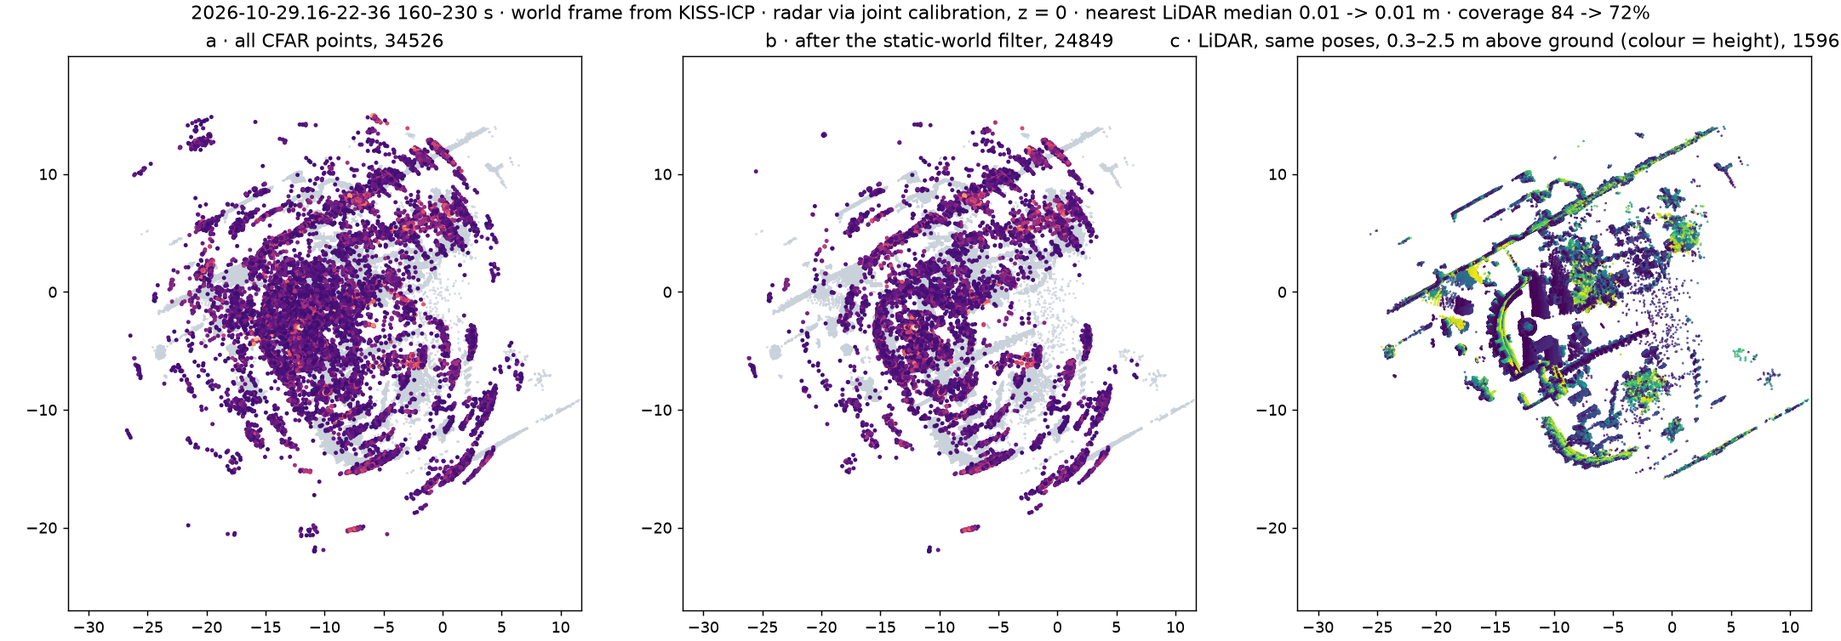
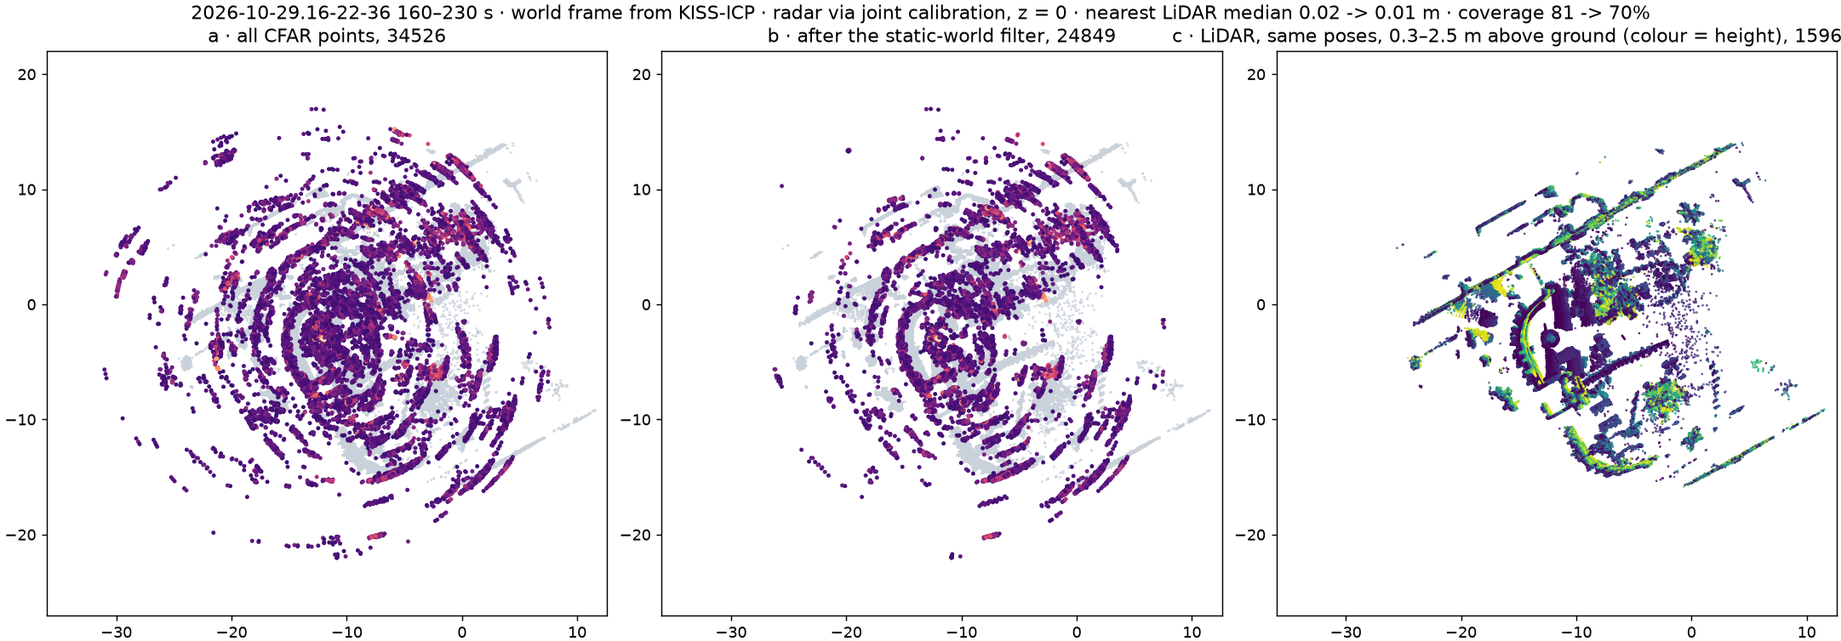
Scotty up close: camera, LiDAR and radar on one object; slant range in the plane
src/recon/closeup.py: two camera frames (4.0 m, 2.2 m) with the LiDAR scan and the radar
detections projected through the joint calibration, the LiDAR cut-out of the statue from one
scan and from all 270 orbit scans re-centred on the pedestal (fixed-radius circle fit per scan,
takes the odometry's 0.1 m jitter out), the orbit's radar points from above, and the
range-azimuth power of the 4 m frame. --split writes the two halves for the deck.

to_xy in pointcloud.py: the radar's elevation estimate is noise (13% of detections |el| > 20 deg,
8% > 45 deg) and to_xyz scaled the range by cos(el) before z was zeroed, so those points landed
short. accumulate.py uses to_xy; numbers re-run (Jeep filtered: median 0.04 -> 0.02 m,
86 -> 88% within 0.5 m; coverage 81 -> 69%). Docs and figures updated.

diff --git a/src/recon/closeup.py b/src/recon/closeup.py
@@ -1,0 +1,215 @@
+"""Close-up of one object as the three sensors see it.
+
+    python -m src.recon.closeup data/raw/2026-10-29.16-22-36 --centre -12.45 -2.60 \
+        --far 170 --near 174 --orbit 175 229 --split --out figures/closeup_scotty.png
+
+Panels: two camera frames (one a few metres out, one closer) with the LiDAR scan of that instant and the
+radar detections projected on them through the joint calibration (a, b); the LiDAR cut-out of the object
+from the one close scan (c) and from the whole orbit (d); the top view with the radar points of the orbit
+(e); the range-azimuth power of the far frame (f). --split also writes <out>_1.png (a-c) and <out>_2.png (d-f).
+
+--centre is the object's position in the world frame of data/poses/<trace> (first LiDAR scan), a guess
+good to half a metre. Per scan the centre is then refined on the object's pedestal: a circle of fixed
+radius (fitted once on the far scan, where most of the arc is visible) is fitted to the LiDAR points
+between --slice heights, two parameters, Gauss-Newton with a shrinking inlier band. That takes the
+odometry's jitter and slow drift out of the LiDAR cut-out (its yaw error stays); the radar points keep
+theirs, they come from data/recon/<trace>/radar_points.npz. Radar points carry no elevation, so they are
+drawn at the radar's height. Below ~1.5 m the LiDAR-camera projection drifts off the photo (the solved
+translation is only good to 0.1 m and parallax grows as 1/range), so keep --near at 2 m or more.
+"""
+import argparse, json, os, subprocess
+
+import numpy as np
+
+from ..radar import RadarTrace, detect
+from ..radar.pointcloud import to_xy, RANGE_OFFSET
+from ..radar.angle import AZIMUTHS
+from ..calib.lidar import LidarTrace
+from ..calib.transform import RadarToLidar, RadarToCamera
+from ..calib.board_image import project_fisheye
+from .accumulate import height_above_ground
+
+W, H = 1920, 1080
+HCMAP, HMAX = "turbo", 2.2
+TITLE = dict(fontsize=9)
+
+
+def camera_frame(trace, t_unix, path):
+    ts = np.fromfile(os.path.join(trace, "camera", "ts"), "<f8"); kc = int(np.searchsorted(ts, t_unix))
+    subprocess.run(["ffmpeg", "-v", "error", "-y", "-ss", f"{kc / 30:.3f}", "-i", os.path.join(trace, "camera", "video.avi"), "-frames:v", "1", path], check=True)
+    import matplotlib.image as mpimg
+    img = mpimg.imread(path); os.remove(path); return img, ts[kc]
+
+
+def inside(uv):
+    return (uv[:, 0] >= 0) & (uv[:, 0] < W) & (uv[:, 1] >= 0) & (uv[:, 1] < H)
+
+
+def circle_free(xy):
+    """Algebraic circle fit (centre, radius); fine when most of the arc is visible."""
+    A = np.c_[2 * xy, np.ones(len(xy))]; sol = np.linalg.lstsq(A, (xy ** 2).sum(1), rcond=None)[0]
+    return sol[:2], np.sqrt(sol[2] + sol[0] ** 2 + sol[1] ** 2)
+
+
+def circle_fixed(xy, c0, radius, tols=(0.3, 0.2, 0.12, 0.08, 0.06, 0.05)):
+    """Centre of a circle of known radius through the points: Gauss-Newton with a shrinking inlier band,
+    started from the free fit when that is sane, else from c0. Returns (centre, share of points within 5 cm)."""
+    c = np.array(c0, float)
+    if len(xy) >= 100:
+        cf, rf = circle_free(xy)
+        if np.hypot(*(cf - c)) < 1.0 and 0.5 * radius < rf < 2 * radius: c = cf
+    for tol in tols:
+        d = xy - c; rho = np.linalg.norm(d, axis=1); res = rho - radius; w = np.abs(res) < tol
+        if w.sum() < 30: return c, 0.0
+        c = c + np.linalg.lstsq(-d[w] / rho[w, None], -res[w], rcond=None)[0]
+    d = xy - c; return c, float((np.abs(np.linalg.norm(d, axis=1) - radius) < 0.05).mean())
+
+
+class Scan:
+    """One LiDAR scan with its pose, its ground, and the object's centre refined on the pedestal."""
+
+    def __init__(self, lt, L, t_unix, c_world, radius=None, slice_h=(0.45, 1.0), reach=1.5):
+        self.k = lt.index_at(t_unix); self.j = int(np.argmin(np.abs(L["t"] - t_unix))); self.T = L["T"][self.j]
+        xyz = lt.xyz(self.k); rho = np.linalg.norm(xyz[:, :2], axis=1); self.xyz = xyz[rho > 0.5]
+        self.h = height_above_ground(self.xyz)
+        c0 = (self.T[:3, :3].T @ (np.r_[c_world, self.T[2, 3]] - self.T[:3, 3]))[:2]       # odometry's idea of the centre, this frame
+        m = (np.hypot(*(self.xyz[:, :2] - c0).T) < reach) & (self.h > slice_h[0]) & (self.h < slice_h[1])
+        if radius is None: self.c, self.radius = circle_free(self.xyz[m, :2]); self.fit = 1.0
+        else: self.c, self.fit = circle_fixed(self.xyz[m, :2], c0, radius); self.radius = radius
+        self.c0, self.n_slice = c0, int(m.sum())
+
+    def dist(self):
+        return float(np.hypot(*self.c))
+
+    def cut(self, r):
+        return np.hypot(*(self.xyz[:, :2] - self.c).T) < r
+
+    def world_xy(self, xy):
+        return xy @ self.T[:2, :2].T + self.T[:2, 3]
+
+
+def axes3d(ax, R, look):
+    ax.view_init(elev=14, azim=look); ax.set_xlim(-R, R); ax.set_ylim(-R, R); ax.set_zlim(0, 2.4); ax.set_box_aspect((1, 1, 1.05))
+    ax.set_xlabel("x (m)", fontsize=8); ax.set_ylabel("y (m)", fontsize=8); ax.set_zlabel("height (m)", fontsize=8); ax.tick_params(labelsize=7)
+    for p in (ax.xaxis.pane, ax.yaxis.pane, ax.zaxis.pane): p.fill = False
+
+
+def main():
+    ap = argparse.ArgumentParser()
+    ap.add_argument("trace"); ap.add_argument("--centre", type=float, nargs=2, required=True); ap.add_argument("--radius", type=float, default=1.2, help="cut-out radius (m)")
+    ap.add_argument("--far", type=float, required=True); ap.add_argument("--near", type=float, required=True)
+    ap.add_argument("--orbit", type=float, nargs=2, required=True, help="start, end (s) of the orbit used for the LiDAR cut-out")
+    ap.add_argument("--slice", type=float, nargs=2, default=(0.45, 1.0), help="heights of the pedestal slice the centre is fitted on")
+    ap.add_argument("--poses-dir", default="data/poses"); ap.add_argument("--accumulate", type=int, default=10); ap.add_argument("--snr", type=float, default=10)
+    ap.add_argument("--split", action="store_true"); ap.add_argument("--out", required=True)
+    a = ap.parse_args()
+    name = os.path.basename(a.trace.rstrip("/")); c_guess = np.array(a.centre)
+    tr = RadarTrace(a.trace); lt = LidarTrace(a.trace); t0 = tr.ts[0]
+    P = np.load(os.path.join(a.poses_dir, name, "radar.npz")); L = np.load(os.path.join(a.poses_dir, name, "lidar.npz"))
+    T_rl = RadarToLidar.load_joint(); C_rc = RadarToCamera.load_joint()
+    lc = json.load(open("calib/extrinsics_joint.json"))["lidar_to_camera"]; R_lc, t_lc = np.array(lc["R"]), np.array(lc["t_m"])
+    rec = np.load(os.path.join("data/recon", name, "radar_points.npz"))
+    import matplotlib; matplotlib.use("Agg"); import matplotlib.pyplot as plt
+
+    # pedestal radius from the far scan, then every scan's centre with that radius
+    radius = Scan(lt, L, t0 + a.far, c_guess, None, a.slice).radius; print(f"pedestal radius from the far scan: {radius:.2f} m")
+
+    # a, b: camera frames with the LiDAR cut-out and the radar detections projected
+    cams = []
+    for tag, tsec in [("a", a.far), ("b", a.near)]:
+        img, t_cam = camera_frame(a.trace, t0 + tsec, a.out + f"_{tag}.png"); s = Scan(lt, L, t_cam, c_guess, radius, a.slice); kr = tr.index_at(t_cam)
+        pts = np.concatenate([detect(tr.frame(k), tr.params)[0] for k in range(kr - a.accumulate // 2, kr + a.accumulate // 2)]); pts = pts[pts["snr"] > a.snr]
+        xy_r = to_xy(pts); on = np.hypot(*(T_rl(xy_r)[:, :2] - s.c).T) < radius + 0.5; uv_r = C_rc.pixels(xy_r); m_r = inside(uv_r) & (C_rc(xy_r)[:, 2] > 0.3)
+        cut = s.cut(a.radius) & (s.h > 0.05); lid_cam = s.xyz[cut] @ R_lc.T + t_lc; ok = lid_cam[:, 2] > 0.3; uv_l = project_fisheye(lid_cam[ok], C_rc.cam); q = inside(uv_l)
+        cams.append(dict(tag=tag, tsec=tsec, img=img, s=s, uv_l=uv_l[q], h_l=s.h[cut][ok][q], uv_r=uv_r, m_r=m_r, on=on, pts=pts, kr=kr, n_cut=int(cut.sum())))
+        print(f"{tag}: t = {tsec} s, object {s.dist():.2f} m away (odometry said {np.hypot(*s.c0):.2f}), fit {s.fit:.2f}; {cut.sum()} LiDAR points on it; "
+              f"radar {on.sum()} of {len(pts)} points on it, r {np.unique(pts['r'][on].round(2))}, SNR max {pts['snr'][on].max():.0f}")
+
+    def panel_camera(ax, d):
+        s, pts, on, m_r = d["s"], d["pts"], d["on"], d["m_r"]
+        ax.imshow(d["img"]); ax.scatter(d["uv_l"][:, 0], d["uv_l"][:, 1], s=1.5, c=d["h_l"], cmap=HCMAP, vmin=0, vmax=HMAX, linewidths=0, alpha=.9)
+        ax.scatter(d["uv_r"][m_r & ~on, 0], d["uv_r"][m_r & ~on, 1], s=70, facecolors="none", edgecolors="white", linewidths=1.2)
+        ax.scatter(d["uv_r"][m_r & on, 0], d["uv_r"][m_r & on, 1], s=110, facecolors="none", edgecolors="#FF3B30", linewidths=2.2)
+        ax.set_xlim(0, W); ax.set_ylim(H, 0); ax.axis("off")
+        ax.set_title(f"{d['tag']} · camera t = {d['tsec']:.0f} s, object {s.dist():.1f} m away: LiDAR scan on it (dots = height)\n"
+                     f"radar, {a.accumulate} frames (circles): {on.sum()} on the object at r {pts['r'][on].min():.1f}–{pts['r'][on].max():.1f} m, SNR ≤ {pts['snr'][on].max():.0f} dB", **TITLE)
+
+    # c: the one close scan in 3D
+    s_near = cams[1]["s"]; cut_c = s_near.cut(a.radius) & (s_near.h > 0.05); p_c, h_c = s_near.xyz[cut_c], s_near.h[cut_c]
+    look_c = np.degrees(np.arctan2(-s_near.c[1], -s_near.c[0])) + 25                   # viewer a little to the side of the sensor
+
+    def panel_scan3d(ax):
+        ax.scatter(p_c[:, 0] - s_near.c[0], p_c[:, 1] - s_near.c[1], h_c, s=.8, c=h_c, cmap=HCMAP, vmin=0, vmax=HMAX, linewidths=0, depthshade=False)
+        axes3d(ax, a.radius, look_c)
+        ax.set_title(f"c · LiDAR, the one scan of b: {len(p_c):,} points on the object from {s_near.dist():.1f} m\n"
+                     f"(beam spacing there ~{1000 * s_near.dist() * np.radians(360 / 2048):.0f} mm across, ~{1000 * s_near.dist() * np.radians(90 / 127):.0f} mm up)", **TITLE)
+
+    # d: the whole orbit, every 2nd scan, each re-centred on the pedestal, world orientation about the object
+    sel = np.flatnonzero((L["t"] >= t0 + a.orbit[0]) & (L["t"] < t0 + a.orbit[1]))[::2]
+    pts_o, h_o, fits, centres = [], [], [], []
+    for j in sel:
+        s = Scan(lt, L, L["t"][j], c_guess, radius, a.slice)
+        if s.fit < 0.3 or s.n_slice < 200: continue
+        cut = s.cut(a.radius) & (s.h > 0.05); pts_o.append((s.xyz[cut, :2] - s.c) @ s.T[:2, :2].T); h_o.append(s.h[cut]); fits.append(s.fit); centres.append(s.world_xy(s.c))
+    pts_o, h_o, centres = np.concatenate(pts_o), np.concatenate(h_o), np.array(centres); c_ref = centres.mean(0)
+    odo = c_guess - c_ref; jitter = float(np.hypot(*centres.std(0)))
+    pos_w = P["T"][:, :2, 3]; k_far = int(np.argmin(np.abs(P["t"] - (t0 + a.far)))); look_d = np.degrees(np.arctan2(*(pos_w[k_far] - c_ref)[::-1])) + 25
+    print(f"orbit: {len(fits)} of {len(sel)} scans used, fit inlier share median {np.median(fits):.2f}; refined centre (world) {c_ref.round(2)}, "
+          f"guess was {np.hypot(*odo):.2f} m off; scan centres scatter {jitter:.2f} m about the mean; {len(pts_o):,} points")
+
+    def panel_orbit3d(ax):
+        step = max(1, len(pts_o) // 400_000)
+        ax.scatter(pts_o[::step, 0], pts_o[::step, 1], h_o[::step], s=.4, c=h_o[::step], cmap=HCMAP, vmin=0, vmax=HMAX, linewidths=0, depthshade=False)
+        axes3d(ax, a.radius, look_d)
+        ax.set_title(f"d · LiDAR, {len(fits)} orbit scans ({a.orbit[0]:.0f}–{a.orbit[1]:.0f} s), each re-centred on the pedestal\n"
+                     f"(r = {radius:.2f} m circle fitted at {a.slice[0]}–{a.slice[1]} m; odometry centres scatter {jitter:.2f} m)", **TITLE)
+
+    # e: top view with the radar points of the orbit
+    R2 = 2.5; rx = rec["xyz"][:, :2] - c_ref; nr = np.hypot(*rx.T) < R2; st = rec["static"]; ps = (P["t"] >= t0 + a.orbit[0]) & (P["t"] < t0 + a.orbit[1])
+    on_ped = (np.hypot(*rx[nr & st].T) < radius + 0.35).sum()
+
+    def panel_top(ax, fig):
+        m = h_o > 0.3; ax.scatter(pts_o[m][::4, 0], pts_o[m][::4, 1], s=.3, c="#AEB7C2", linewidths=0, label="LiDAR of d, > 0.3 m")
+        ax.scatter(rx[nr & ~st, 0], rx[nr & ~st, 1], s=7, c="#E8C4C4", linewidths=0, label="radar, failed the static test")
+        sc = ax.scatter(rx[nr & st, 0], rx[nr & st, 1], s=12, c=rec["snr"][nr & st], cmap="magma", vmin=10, vmax=30, linewidths=0, label="radar, static")
+        ax.plot(pos_w[ps, 0] - c_ref[0], pos_w[ps, 1] - c_ref[1], color="#2C43B0", lw=1, label="sensor path"); ax.add_patch(plt.Circle((0, 0), radius, fill=False, color="#15202B", lw=1, ls="--"))
+        ax.set_xlim(-R2, R2); ax.set_ylim(-R2, R2); ax.set_aspect("equal"); ax.set_xlabel("x (m)"); ax.set_ylabel("y (m)"); ax.legend(loc="upper left", fontsize=7.5, markerscale=2)
+        ax.set_title(f"e · top view: {(nr & st).sum():,} static radar points, {on_ped:,} at the pedestal (dashed);\n"
+                     f"{(nr & ~st).sum():,} rejected (pink); the ring round the path is the operator", **TITLE)
+        fig.colorbar(sc, ax=ax, shrink=.75, label="radar SNR (dB)")
+
+    # f: range-azimuth power of the far frame with the LiDAR of that instant
+    s_far = cams[0]["s"]; pts_f, info = detect(tr.frame(cams[0]["kr"]), tr.params); db = 10 * np.log10(info["power"] + 1e-12)
+    rng = tr.params.ranges - RANGE_OFFSET; AZ, RG = np.meshgrid(AZIMUTHS, rng, indexing="ij"); X, Y = -RG * np.sin(AZ), RG * np.cos(AZ)
+    lid_r = T_rl.inverse(s_far.xyz[(s_far.h > 0.3) & (s_far.h < 2.5)]); c_r = T_rl.inverse(np.r_[s_far.c, 0.0][None])[0]; xy_d = to_xy(pts_f)
+    pk = db[np.hypot(X - c_r[0], Y - c_r[1]) < radius + 0.4].max(); floor = np.median(db); r_max = RG.flat[db.argmax()]
+    print(f"f: object peak {pk - floor:.0f} dB above the floor, {db.max() - pk:.0f} dB below the strongest return at {r_max:.1f} m; "
+          f"CFAR detections on it: {[(round(float(p['r']), 2), round(float(np.degrees(p['az']))), round(float(p['snr']))) for p in pts_f if np.hypot(-p['r'] * np.sin(p['az']) - c_r[0], p['r'] * np.cos(p['az']) - c_r[1]) < radius + 0.4]}")
+
+    def panel_power(ax, fig):
+        R3 = 7.0
+        pm = ax.pcolormesh(X, Y, db, cmap="inferno", vmin=np.percentile(db, 50), vmax=np.percentile(db, 99.8), shading="nearest", rasterized=True)
+        ax.scatter(lid_r[:, 0], lid_r[:, 1], s=.3, c="#8FD3FF", linewidths=0, alpha=.5); ax.add_patch(plt.Circle(c_r[:2], radius, fill=False, color="white", lw=1.2, ls="--"))
+        ax.scatter(xy_d[:, 0], xy_d[:, 1], s=14, marker="x", c="#00E5A0", linewidths=1)
+        ax.set_xlim(-R3, R3); ax.set_ylim(0, 2 * R3); ax.set_aspect("equal"); ax.set_xlabel("x radar (m)"); ax.set_ylabel("y radar (m)")
+        ax.set_title(f"f · radar range–azimuth power, the frame of a; LiDAR 0.3–2.5 m (blue), CFAR (x)\n"
+                     f"object (dashed): peak {pk - floor:.0f} dB above the floor, {db.max() - pk:.0f} dB below the wall at {r_max:.1f} m", **TITLE)
+        fig.colorbar(pm, ax=ax, shrink=.75, label="power (dB)")
+
+    sup = f"{name}: one object up close — camera, LiDAR and radar (joint calibration, KISS-ICP poses)"
+    layouts = [("", (2, 3), (16.64, 9.6), "abcdef")] + ([("_1", (1, 3), (16.64, 5.3), "abc"), ("_2", (1, 3), (16.64, 5.3), "def")] if a.split else [])
+    os.makedirs(os.path.dirname(a.out) or ".", exist_ok=True)
+    for suffix, shape, size, panels in layouts:
+        fig = plt.figure(figsize=size, constrained_layout=True); gs = fig.add_gridspec(*shape)
+        for i, p in enumerate(panels):
+            cell = gs[i // shape[1], i % shape[1]]
+            if p in "ab": panel_camera(fig.add_subplot(cell), cams["ab".index(p)])
+            elif p == "c": panel_scan3d(fig.add_subplot(cell, projection="3d"))
+            elif p == "d": panel_orbit3d(fig.add_subplot(cell, projection="3d"))
+            elif p == "e": panel_top(fig.add_subplot(cell), fig)
+            elif p == "f": panel_power(fig.add_subplot(cell), fig)
+        fig.suptitle(sup, fontsize=12); path = a.out.replace(".png", f"{suffix}.png"); fig.savefig(path, dpi=110); plt.close(fig); print("saved", path)
+
+
+if __name__ == "__main__":
+    main()

diff --git a/src/recon/accumulate.py b/src/recon/accumulate.py
@@ -25,7 +25,8 @@ import argparse, os
 import numpy as np
 from scipy.ndimage import median_filter
 
-from ..radar import RadarTrace, detect, to_xyz
+from ..radar import RadarTrace, detect
+from ..radar.pointcloud import to_xy
 from ..radar.ego import static_mask_from_velocity, estimate_ego_dense
 from ..radar.angle import AZIMUTHS
 from ..calib.lidar import LidarTrace
@@ -84,7 +85,7 @@ def main():
         v_lidar = T[:3, :3].T @ vel_w[n]; v_radar = R_rl.T @ v_lidar                  # world -> lidar -> radar frame
         m = static_mask_from_velocity(pts, v_radar[:2], v_res=tr.params.velocity_resolution)
         s_dop, phi_dop, sup = estimate_ego_dense(info["spec_az"], tr.params.velocities, AZIMUTHS)   # Doppler-only cross-check
-        xyz = to_xyz(pts); xyz[:, 2] = 0.0
+        xyz = to_xy(pts)                                                          # slant range in the plane, z = 0 (elevation unusable)
         xyz_w = T_rl(xyz) @ T[:3, :3].T + T[:3, 3]
         world.append(xyz_w); snr.append(pts["snr"]); frame.append(np.full(len(pts), k)); kept.append(m)
         ego.append((t_w[n], np.hypot(*v_radar[:2]), np.arctan2(-v_radar[0], v_radar[1]), s_dop, phi_dop, sup, len(pts)))

diff --git a/src/radar/pointcloud.py b/src/radar/pointcloud.py
@@ -54,3 +54,14 @@ def to_xyz(pts):
     """Spherical -> Cartesian: x right, y forward, z up (metres)."""
     r, az, el = pts["r"], pts["az"], pts["el"]
     return np.stack([-r * np.sin(az) * np.cos(el), r * np.cos(az) * np.cos(el), r * np.sin(el)], axis=-1)
+
+
+def to_xy(pts):
+    """(N, 3) with z = 0: the slant range placed in the plane, x right, y forward.
+
+    The elevation estimate (two antenna rows half a wavelength apart) is too noisy to use: on the
+    Scotty orbit 13% of detections have |el| > 20 deg and 8% > 45 deg. to_xyz scales the range by
+    cos(el), so those points land far too short; whenever z is set to 0 anyway, use this instead.
+    """
+    r, az = pts["r"], pts["az"]
+    return np.stack([-r * np.sin(az), r * np.cos(az), np.zeros(len(r))], axis=-1)

diff --git a/experiments/obj-orbit-360/README.md b/experiments/obj-orbit-360/README.md
@@ -39,9 +39,9 @@ They agree. On Scotty the ridge speed is within 0.15 m/s of the odometry on 89 %
 *Same for `15-49-40` 660–1020 s (`--frames 750 965`). The 720 s spike in the odometry speed is the look-around swing that the deskew and map settings above were tuned on.*
 
 ## Accumulation in the world frame (2026-11-01)
-`src/recon/accumulate.py`: CFAR points of every radar frame (snr > 10), the static-world test with the odometry velocity (|v − (−v_sensor · u(az))| < 1.5 Doppler bins), z set to 0, joint calibration into the LiDAR frame, the interpolated pose into the world. Next to it the LiDAR built with the same poses, the operator and rig dropped (within 1.5 m), and only the layer 0.3–2.5 m above the ground kept, within 15 m of the sensor; that layer is roughly what the radar sees. The ground is estimated per scan in the sensor frame, in two steps: a plane fitted to the low points within 10 m (the handheld rig is tilted, so in the sensor frame the ground is a slope of up to ±1 m at 5 m), then per 2 m cell the 5th percentile of the residual to that plane, so a terrace or the raised lawn next to Scotty's plaza counts as ground too. Per scan because the odometry's z and pitch jitter smears the ground into a 0.5 m slab in the world frame, where a height cut no longer separates it (the first try, a world-frame cut, left a lattice of ground wedges); the plane alone kept Scotty's lawn as a 0.3–0.5 m "layer", the cells alone let the tilted asphalt through. Two numbers, both within 15 m of the path: the xy distance from each radar point to the nearest LiDAR point of the layer, and coverage, the share of 0.5 m LiDAR cells that have a radar point within 0.5 m.
+`src/recon/accumulate.py`: CFAR points of every radar frame (snr > 10), the static-world test with the odometry velocity (|v − (−v_sensor · u(az))| < 1.5 Doppler bins), the slant range placed in the plane (z = 0; the elevation estimate is unusable, see the close-up below), joint calibration into the LiDAR frame, the interpolated pose into the world. Next to it the LiDAR built with the same poses, the operator and rig dropped (within 1.5 m), and only the layer 0.3–2.5 m above the ground kept, within 15 m of the sensor; that layer is roughly what the radar sees. The ground is estimated per scan in the sensor frame, in two steps: a plane fitted to the low points within 10 m (the handheld rig is tilted, so in the sensor frame the ground is a slope of up to ±1 m at 5 m), then per 2 m cell the 5th percentile of the residual to that plane, so a terrace or the raised lawn next to Scotty's plaza counts as ground too. Per scan because the odometry's z and pitch jitter smears the ground into a 0.5 m slab in the world frame, where a height cut no longer separates it (the first try, a world-frame cut, left a lattice of ground wedges); the plane alone kept Scotty's lawn as a 0.3–0.5 m "layer", the cells alone let the tilted asphalt through. Two numbers, both within 15 m of the path: the xy distance from each radar point to the nearest LiDAR point of the layer, and coverage, the share of 0.5 m LiDAR cells that have a radar point within 0.5 m.
 
-On the Jeep orbit (930–1020 s, two laps, 1,777 frames, 23,999 CFAR points) the static filter keeps 44 %. What it removes is the cloud inside the orbit (panel a): points with the wrong Doppler for their azimuth, the ghosts of the Jeep's two-bounce returns, sidelobes of the strong near echo, and the companion walking alongside. What stays (panel b) is the Jeep as a ring of returns around its LiDAR outline, the row of parked cars at 10–15 m, and the wall segments at the left, each where the LiDAR has them: the median distance to the LiDAR layer drops from 0.08 to 0.04 m and the share within 0.5 m rises from 75 to 86 %. Coverage drops from 82 to 68 %, so the filter also costs real points, mostly where the odometry velocity is least certain (the 1 s median lags turns) and at the edge of the field of view, where the static curve is steepest. On Scotty (160–230 s, 1,384 frames, 34,526 points) 72 % pass, the median distance stays 0.01 m (94 % within 0.5 m) and coverage goes from 84 to 72 %. The pass rate tracks the odometry speed: at Scotty's 0.3 m/s the whole scene sits within a few Doppler bins of zero and little can fail the test; at 0.55 m/s around the Jeep more does. Both runs also write the dense range–azimuth power of every frame (`--dense`, `data/recon/<trace>/dense_power.npz`, float16 dB, with the frame index that keys the poses) for a reconstruction that does not start from CFAR points.
+On the Jeep orbit (930–1020 s, two laps, 1,777 frames, 23,999 CFAR points) the static filter keeps 44 %. What it removes is the cloud inside the orbit (panel a): points with the wrong Doppler for their azimuth, the ghosts of the Jeep's two-bounce returns, sidelobes of the strong near echo, and the companion walking alongside. What stays (panel b) is the Jeep as a ring of returns around its LiDAR outline, the row of parked cars at 10–15 m, and the wall segments at the left, each where the LiDAR has them: the median distance to the LiDAR layer drops from 0.06 to 0.02 m and the share within 0.5 m rises from 77 to 88 %. Coverage drops from 81 to 69 %, so the filter also costs real points, mostly where the odometry velocity is least certain (the 1 s median lags turns) and at the edge of the field of view, where the static curve is steepest. On Scotty (160–230 s, 1,384 frames, 34,526 points) 72 % pass, the median distance goes from 0.02 to 0.01 m (90 to 92 % within 0.5 m) and coverage from 81 to 70 %. The pass rate tracks the odometry speed: at Scotty's 0.3 m/s the whole scene sits within a few Doppler bins of zero and little can fail the test; at 0.55 m/s around the Jeep more does. Both runs also write the dense range–azimuth power of every frame (`--dense`, `data/recon/<trace>/dense_power.npz`, float16 dB, with the frame index that keys the poses) for a reconstruction that does not start from CFAR points.
 
 ![Accumulated radar points next to the LiDAR, Jeep orbit](../../figures/accum_jeep.png)
 
@@ -52,6 +52,17 @@ On the Jeep orbit (930–1020 s, two laps, 1,777 frames, 23,999 CFAR points) the
 *Same for `16-22-36` 160–230 s. Scotty is the small cluster near the orbit centre; the arcs are the wall and planters behind it.*
 
 What this is good for and what it is not: the accumulated static points sit on the LiDAR surfaces to a few centimetres in the plane, which is the calibration and odometry working; the object itself is still a ring the width of the 14° beam, with no height. Per-object numbers (points on the object per frame, extent against the LiDAR, echo strength versus viewing angle) are the next step, on these files.
+
+## Up close: Scotty (2026-11-01)
+`src/recon/closeup.py`: one object at the resolution each sensor has for it. Two camera frames of the approach, at 4.0 m and 2.2 m, carry the LiDAR scan of that instant and the radar detections of ten frames, both projected through the joint calibration; the LiDAR points are cut out within 1.2 m of the statue and coloured by height above the local ground, the radar points are drawn at the radar's height, red when they fall within half a metre of the pedestal. The statue's position starts as a guess (the orbit's centre) and is refined on every scan: a circle of fixed radius (0.39 m, fitted once on the 4 m scan, where most of the arc is visible) is fitted to the LiDAR points 0.45–1.0 m above ground, two parameters, Gauss–Newton with a shrinking inlier band. The guess was 0.45 m off; the per-scan centres then scatter 0.10 m about their mean, which is the odometry's jitter, and the cut-out from all 270 scans of the orbit (175–229 s) is drawn with that correction.
+
+What each sensor has of a 1.9 m statue. The camera has all of it, fisheye, 1920 × 1080. The LiDAR at 2.2 m has 8,864 points on it, 7 mm apart across and 28 mm up, enough that the head, back and tail of the dog read from one scan (panel c); from the whole orbit, re-centred, the plinth, the cylinder and the dog are all there, the dog smeared by the odometry's yaw error, which the re-centring does not touch (d). The radar at 4 m sees the statue as two CFAR detections at 3.4–3.5 m (SNR 12–17 dB); its peak in the range–azimuth map is 36 dB above the noise floor and 9 dB below the wall behind it at 7.2 m (f). At 2.2 m it is 30 points of ten frames at 1.7–2.0 m, SNR up to 27 dB. Over the orbit the static points pile onto the pedestal: 3,041 of the 4,582 within 2.5 m lie within 0.35 m of its surface (e), a blob the size of the pedestal rather than a ring, because at 1–1.3 m from the axis the 14° beam and the 9 cm range bin each cover the whole object. The 2,299 rejected points form a ring around the path: the operator, who moves with the sensor and so carries the wrong Doppler for a static target. Below about 1.5 m the LiDAR–camera projection drifts off the photo (the solved translation is good to 0.1 m and parallax grows as 1/range), so the close frame is taken at 2.2 m.
+
+One fix came out of this. The radar's elevation estimate was being used: `to_xyz` scales the range by cos(el) before z was zeroed, and with 13 % of detections at |el| > 20° and 8 % beyond 45°, those points landed short. `to_xy` now puts the slant range in the plane, and the accumulation numbers above are with it (Jeep, filtered: median 0.04 → 0.02 m, 86 → 88 % within 0.5 m).
+
+![Scotty up close: camera, LiDAR and radar](../../figures/closeup_scotty.png)
+
+*`16-22-36`: a, b camera at 4.0 and 2.2 m with the LiDAR scan (colour = height) and the radar detections (circles, red on the object); c the one scan at 2.2 m; d the orbit's 270 scans re-centred on the pedestal; e top view with the orbit's radar points; f range–azimuth power of the 4 m frame with the LiDAR of that instant. `python -m src.recon.closeup data/raw/2026-10-29.16-22-36 --centre -12.45 -2.60 --far 170 --near 174 --orbit 175 229 --split --out figures/closeup_scotty.png`.*
 
 ## Results
 | Object | Size | Material | Radar points per frame on object | Extent error vs LiDAR | Mean echo (dB) | Visible from all sides? |
@@ -81,7 +92,8 @@ Pending. Expected: the car is bright from every side, the small metal object is 
 ## Open items
 - Odometry yaw still slips ~150° over the Jeep window while standing still and spinning (785–890 s); a loop closure or the IMU as a yaw prior would fix it. The orbit itself is unaffected.
 - Decide how to segment each object in the LiDAR layer (the Jeep is the cluster at the orbit centre)
-- The static filter's cost in coverage (82 → 68 % on the Jeep): a Doppler-only ego estimate per frame, or a shorter velocity smoothing, might keep more of the edge-of-view points
+- The LiDAR cut-out of an object is only as sharp as the odometry's yaw; the pedestal fit fixes the position, not the rotation. Registering the scans on the object itself (ICP on the cut-out) is the next step for a crisp model.
+- The static filter's cost in coverage (81 → 69 % on the Jeep): a Doppler-only ego estimate per frame, or a shorter velocity smoothing, might keep more of the edge-of-view points
 
 ## B-roll to capture (for the 5-minute video)
 - [ ] Phone video of each orbit from a second person
@@ -93,6 +105,7 @@ Pending. Expected: the car is bright from every side, the small metal object is 
 python -m src.recon.poses data/raw/2026-10-29.15-49-40 --start 660 --seconds 360 --out figures/poses_jeep.png
 python -m src.recon.ego_check data/raw/2026-10-29.15-49-40 --start 660 --seconds 360 --frames 750 965 --out figures/ego_check_jeep.png
 python -m src.recon.accumulate data/raw/2026-10-29.15-49-40 --start 930 --seconds 90 --dense --out figures/accum_jeep.png
+python -m src.recon.closeup data/raw/2026-10-29.16-22-36 --centre -12.45 -2.60 --far 170 --near 174 --orbit 175 229 --split --out figures/closeup_scotty.png
 ```
 Same for `16-22-36` with `--start 160 --seconds 70` (and `--frames 165 200`). Outputs: `data/poses/<trace>/`, `data/recon/<trace>/` (not in git). Per-object analysis: `src/ext/360/` (Yining).
 

diff --git a/EXPERIMENTS.md b/EXPERIMENTS.md
@@ -206,15 +206,19 @@ The main deliverable; needs section 6 first. Radar points projected into the ima
 
 ## 8. Orbits around objects
 
-*[obj-orbit-360](experiments/obj-orbit-360/README.md) · data partly recorded (10/29); poses, static-world filter and accumulation working (11/1); per-object numbers pending*
+*[obj-orbit-360](experiments/obj-orbit-360/README.md) · data partly recorded (10/29); poses, static-world filter, accumulation and a first close-up working (11/1); per-object numbers pending*
 
 Session 2 orbited a Jeep (`15-49-40`, min 11–17), the Walking to the Sky sculpture (`16-12-38`, 5:30–9:40, rig often tilted up) and the Scotty statue (`16-22-36`, 2:59–3:45, partial). A tree, a GHC wall and a spin in place are still to record. Expected: the car bright from every side, the small object smeared by the 14° beam, the tree weak, the wall lit only when faced squarely.
 
-The path from frames to a world frame now exists. Poses come from KISS-ICP on the 128-beam scans, which only held together once three things were right: the LiDAR beam geometry (section 6), the deskew (the built-in constant-velocity deskew feeds its own jitter back on a handheld rig; each scan is now un-skewed with the IMU gyro instead) and the map range (30 m rather than 50 m, so the sparse far returns of an open lot stop steering the registration). The remaining yaw slip against the IMU over the six-minute Jeep window is 155°, accumulated while standing still and spinning, not on the orbit. The static-world filter then uses those poses: a static target at azimuth az must show Doppler −v_sensor · u(az), approaching negative. Checked the other way round, the radar's own Doppler ridge gives the same speed and heading as the odometry (Scotty: 89 % of moving frames within 0.15 m/s, heading to 6°), which tests the Doppler axis, the pose velocity, the calibration yaw and the clocks in one figure. Accumulated with the filter, the Jeep orbit's CFAR points sit on the LiDAR's 0.3–2.5 m layer to 4 cm in the plane (86 % within 0.5 m, up from 75 % unfiltered) and the ghosts inside the orbit are gone; the filter costs coverage (82 → 68 % of LiDAR cells near the path). The object itself is still a 14°-wide ring with no height. The reconstruction is Yining's part; the per-frame export now exists (poses per radar frame, static-filtered points, and the dense range–azimuth power map per frame).
+The path from frames to a world frame now exists. Poses come from KISS-ICP on the 128-beam scans, which only held together once three things were right: the LiDAR beam geometry (section 6), the deskew (the built-in constant-velocity deskew feeds its own jitter back on a handheld rig; each scan is now un-skewed with the IMU gyro instead) and the map range (30 m rather than 50 m, so the sparse far returns of an open lot stop steering the registration). The remaining yaw slip against the IMU over the six-minute Jeep window is 155°, accumulated while standing still and spinning, not on the orbit. The static-world filter then uses those poses: a static target at azimuth az must show Doppler −v_sensor · u(az), approaching negative. Checked the other way round, the radar's own Doppler ridge gives the same speed and heading as the odometry (Scotty: 89 % of moving frames within 0.15 m/s, heading to 6°), which tests the Doppler axis, the pose velocity, the calibration yaw and the clocks in one figure. Accumulated with the filter, the Jeep orbit's CFAR points sit on the LiDAR's 0.3–2.5 m layer to 2 cm in the plane (88 % within 0.5 m, up from 77 % unfiltered) and the ghosts inside the orbit are gone; the filter costs coverage (81 → 69 % of LiDAR cells near the path). The object itself is still a 14°-wide ring with no height. Up close, on Scotty, the three sensors line up on the same statue: the LiDAR has 8,864 points on it from 2.2 m and the whole orbit's scans, re-centred on the pedestal, give the plinth, the cylinder and the dog; the radar has two detections on it at 4 m, 36 dB above the floor, and over the orbit a pile of static points the size of the pedestal; the camera frame carries both projections. The reconstruction is Yining's part; the per-frame export now exists (poses per radar frame, static-filtered points, and the dense range–azimuth power map per frame).
 
 ![Accumulated radar points next to the LiDAR, Jeep orbit](figures/accum_jeep.png)
 
 *Jeep orbit, 930–1020 s: all CFAR points, after the static-world filter, LiDAR layer with the same poses. Details and the pose and Doppler checks in the experiment page.*
+
+![Scotty up close: camera, LiDAR and radar](figures/closeup_scotty.png)
+
+*Scotty: camera at 4.0 and 2.2 m with the LiDAR scan and the radar detections projected (a, b), one LiDAR scan (c), the orbit's scans re-centred on the pedestal (d), the orbit's radar points from above (e), range–azimuth power at 4 m (f).*
 
 ---
 

diff --git a/CONTRIBUTING.md b/CONTRIBUTING.md
@@ -58,7 +58,8 @@ What you need to know about these points:
 ## What is missing (and you may need to make)
 
 - **Poses.** A first version exists: KISS-ICP odometry on the LiDAR scans, `python -m src.recon.poses <trace> --start <s> --seconds <n>` → `data/poses/<trace>/lidar.npz` (per scan) and `radar.npz` (per radar frame, keys `t`, `T` [N,4,4] lidar→world, `index`). Keep the defaults (IMU-gyro deskew, 30 m / 0.3 m map): KISS-ICP's own deskew and its 50 m / 0.5 m defaults both lose the heading on fast swings of this handheld rig, see `experiments/obj-orbit-360/`. No loop closure, so drift over a long orbit is yours to check (or replace with FAST-LIO2 / a loop-closing SLAM). Per-scan jitter is ~0.1 m, so smooth before you differentiate.
-- **Accumulation.** `python -m src.recon.accumulate <trace> --start <s> --seconds <n> --out x.png` puts the static-filtered CFAR points and the LiDAR (ground removed) into the world frame with those poses → `data/recon/<trace>/radar_points.npz`, `lidar_points.npz`. Start from this for the object reconstruction; results so far are in `experiments/obj-orbit-360/README.md`.
+- **Accumulation.** `python -m src.recon.accumulate <trace> --start <s> --seconds <n> --out x.png` puts the static-filtered CFAR points and the LiDAR (ground removed) into the world frame with those poses → `data/recon/<trace>/radar_points.npz`, `lidar_points.npz`. Start from this for the object reconstruction; results so far are in `experiments/obj-orbit-360/README.md`. Flatten radar points with `to_xy` (slant range in the plane), not `to_xyz` then z = 0: the elevation estimate is noise and cos(el) shrinks the range.
+- **One object up close.** `python -m src.recon.closeup <trace> --centre x y --far <s> --near <s> --orbit <s0> <s1> --split --out x.png` projects the LiDAR scan and the radar points on two camera frames, cuts the object out of every scan of the orbit, re-centred on its pedestal (a fixed-radius circle fit, which takes the odometry's jitter out but not its yaw), and draws the radar points and power around it. `--centre` is the object's world-frame position, a guess good to 0.5 m (the orbit's centre). The `Scan` class in there is the piece to reuse: one scan, its ground, the object's refined centre.
 
 ## Calibration (done, use it)
 

diff --git a/README.md b/README.md
@@ -19,7 +19,7 @@ Author: Po-Lin Chen. Contributor: Yining (extensions, 3D reconstruction; acknowl
 | `src/calib/` | extrinsics from the 10/21 board shots: `radar_lidar` (Kabsch), `board_image` + `radar_camera` (PnP), `joint` (one weighted solve, LiDAR frame); `RadarToLidar` / `RadarToCamera` to apply them; `overlay`, `compare`, `examples` to look at the result |
 | `calib/` | `extrinsics_joint.json` (use this), the pairwise `extrinsics_radar_lidar.json` / `extrinsics_radar_camera.json` / `extrinsics_lidar_camera.json`, `board_pixels.json`, fisheye intrinsics from red-rover |
 | `src/grt/` | the learned model next to the classical chain: `infer` runs a released GRT checkpoint on a trace (nrdk env, see `GRT.md`), `occupancy` turns grid cells into xyz with the real Ouster angles, `align` scores GRT against our LiDAR as first-return depth, `compare_frame` draws camera / CFAR / GRT / label for one instant |
-| `src/recon/` | from frames to a world frame: `poses` (KISS-ICP on the Ouster scans, gyro-deskewed, poses at radar times), `ego_check` (radar Doppler of the static world against the odometry), `accumulate` (CFAR points with the static-world filter into the world frame next to the LiDAR built the same way, ground removed; `--dense` exports the range-azimuth power of every frame) |
+| `src/recon/` | from frames to a world frame: `poses` (KISS-ICP on the Ouster scans, gyro-deskewed, poses at radar times), `ego_check` (radar Doppler of the static world against the odometry), `accumulate` (CFAR points with the static-world filter into the world frame next to the LiDAR built the same way, ground removed; `--dense` exports the range-azimuth power of every frame); `closeup` (one object up close: camera, LiDAR and radar, every scan re-centred on its pedestal) |
 | `src/radar/ego.py` | ego-velocity from Doppler and the static-world consistency test (static targets must show v = −v_sensor · u(az); approaching = negative on our Doppler axis) |
 | `data/poses/<trace>/` | `lidar.npz`, `radar.npz`: 4×4 poses per scan / per radar frame, world = first scan (not in git) |
 | `GRT.md` | proposal and first results for GRT occupancy as a reconstruction input, CFAR vs GRT |
